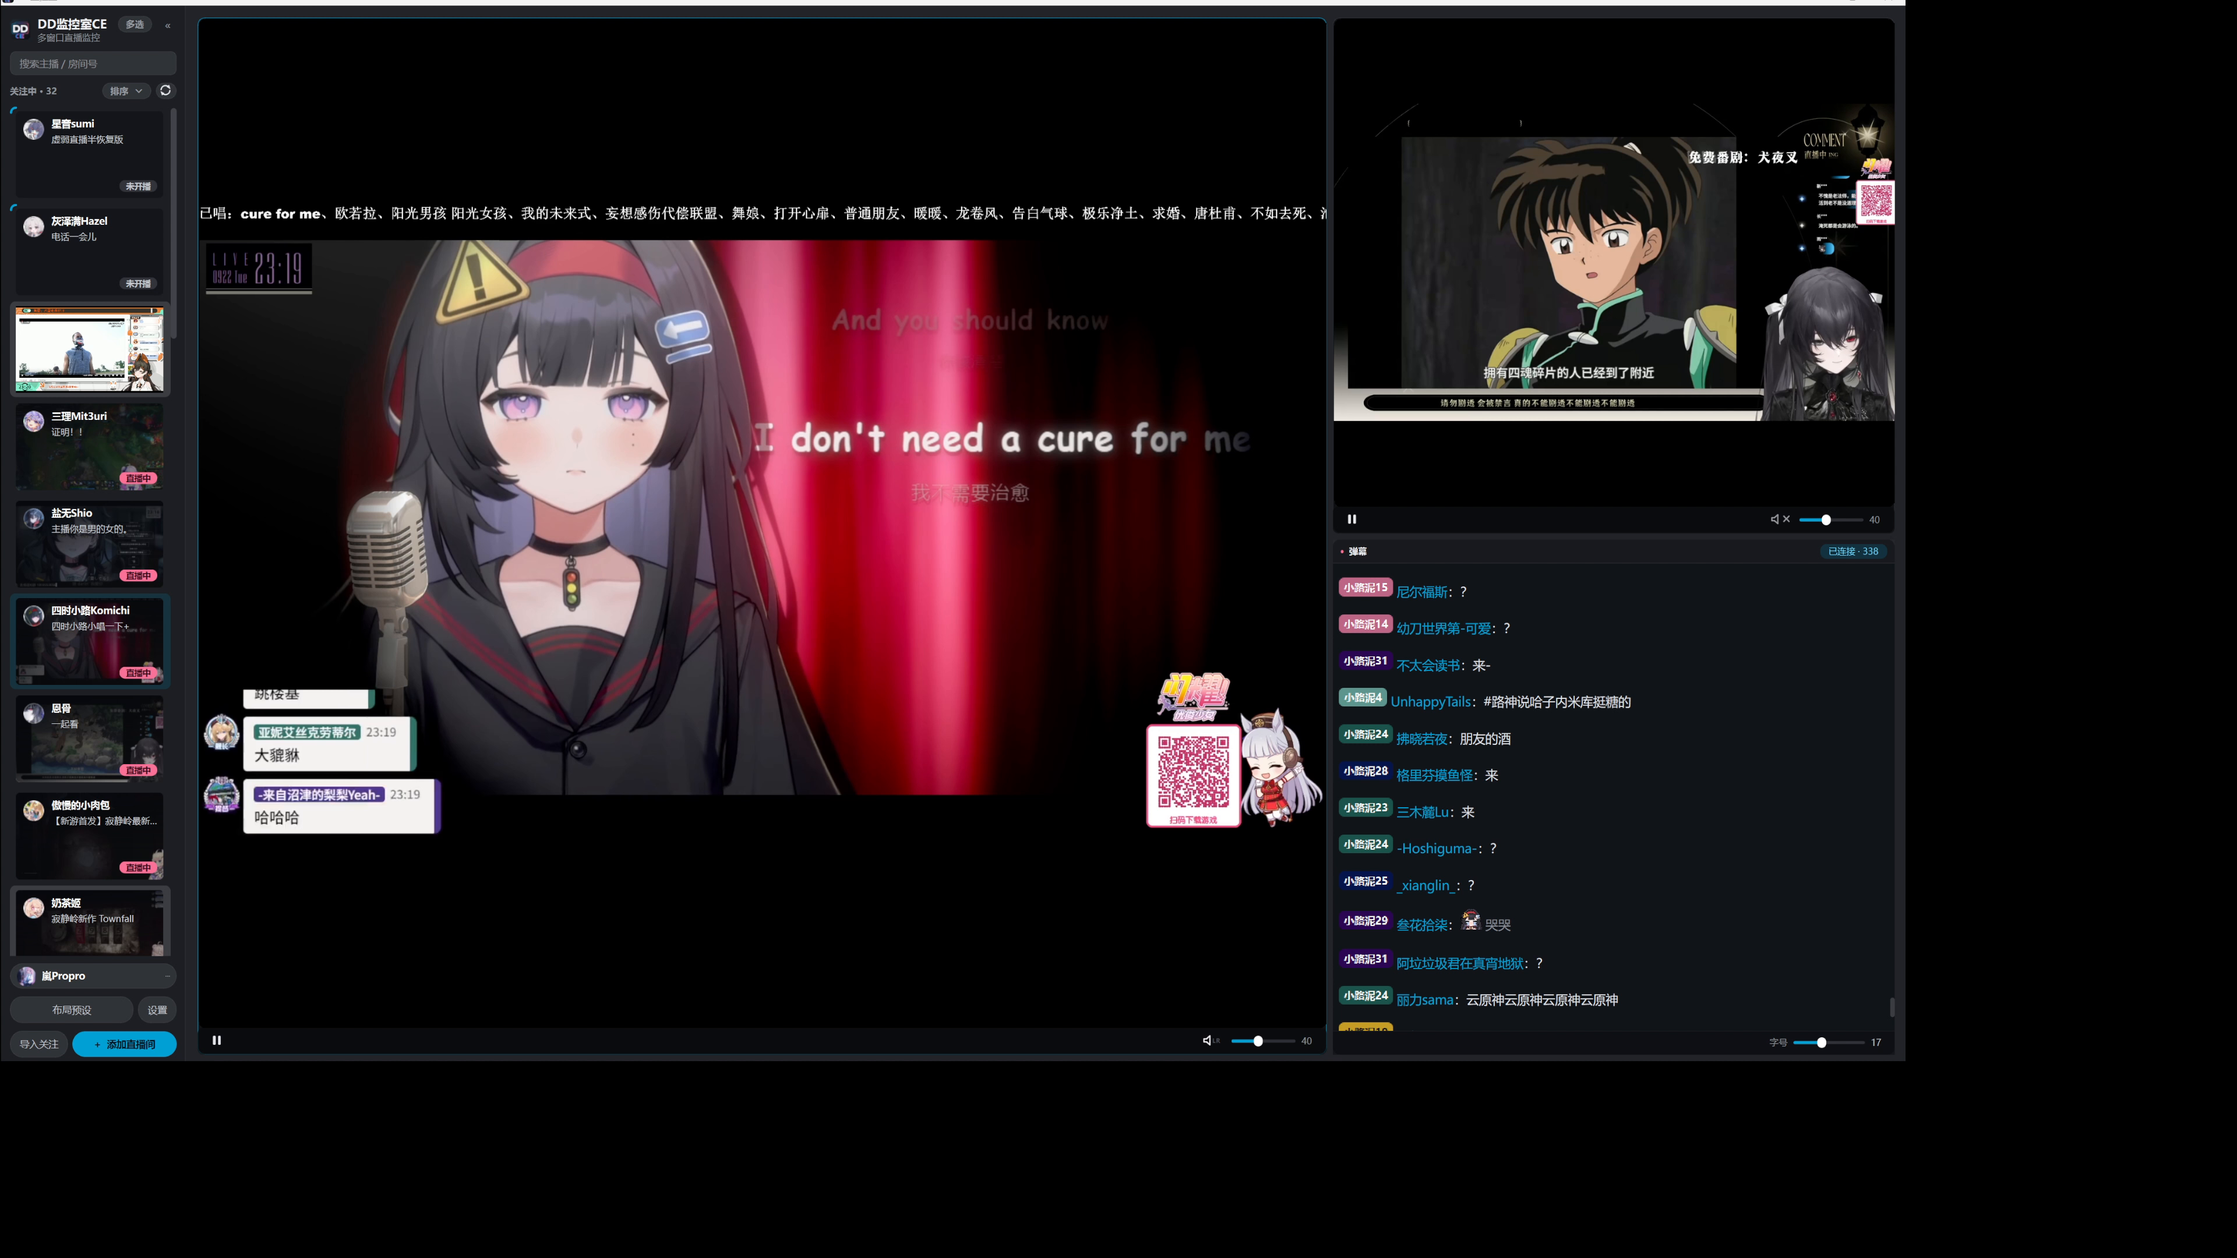
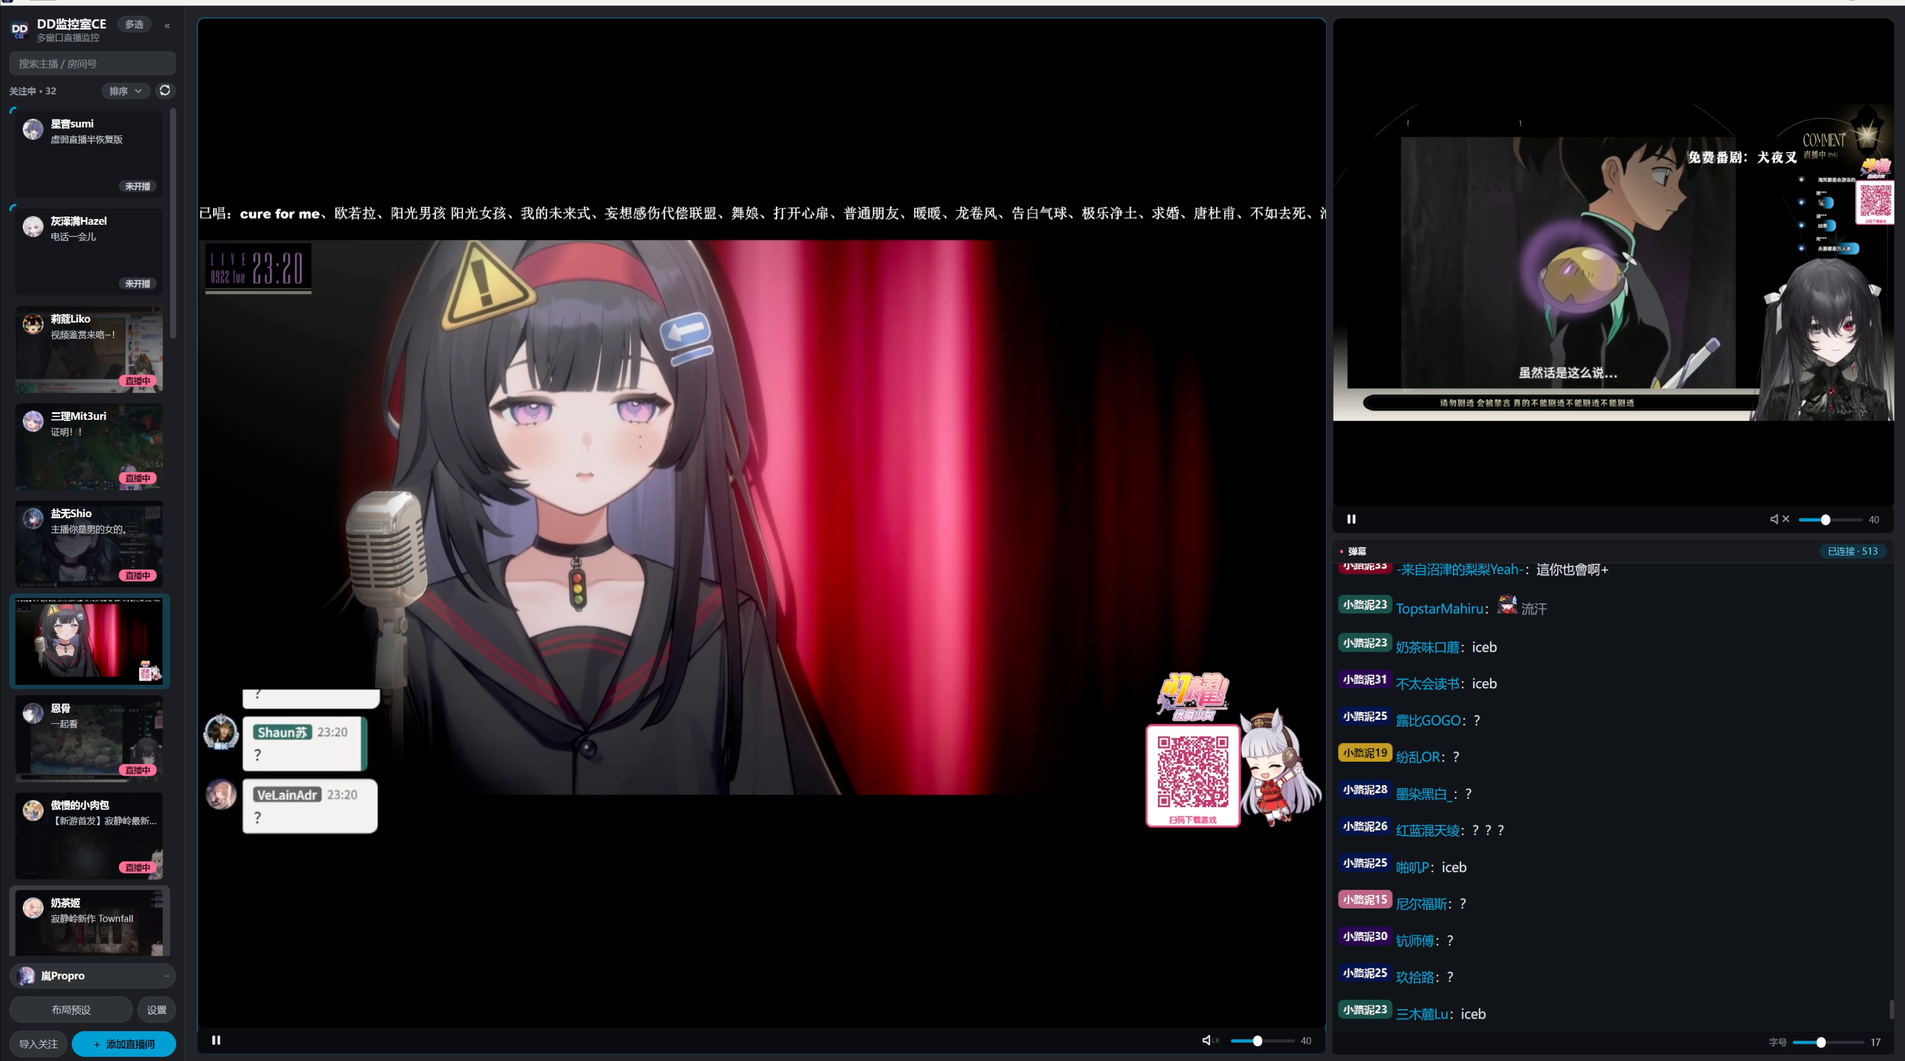
feat(v3/03): 聚焦改为视角推进 + 卡内换成实时录像，并去掉素材黑边
用户 2026-09-23：「聚焦的话将我们的视角推进即可；这个时候的画面停滞了、无法展示预览的效果；
并且右侧和下侧还有黑边，请去除」—— 其十五那版"卡片原地放大"作废。

1) 黑边：聚焦卡片_卡片预览.mp4 的帧右边 569px、下边 338px 是黑的（与 弹幕.mp4 同源，
   内容区都是 3270x1822）-> 从边缘向内扫描量出后裁到内容边界存 focus-app.png
2) 聚焦 = 视角推进：整层 .stage 一起 scale 3.6 + 平移，把目标卡推到画面中心。
   探针 tools/variants-03-focus.json 实测 #v1 box = 726,411 / 469x258 -> 中心正好 (960,540)
3) 画面不再停滞：推进到位后那张卡的位置上换成真实直播录像
   （preview-liko / preview-shio / preview-komichi），动态可见
4) 改用 19.5s 帧：它的关注栏里莉蔻/盐无/四时小路三张都在（4.0s 帧最上面三张是三理Mit3uri/
   盐无/四时小路，而三理Mit3uri 没有预览素材）。三张卡坐标：莉蔻 y 525..675、盐无 859..1009、
   四时小路 1193..1343（粉色"直播中"标签 644/978/1312）
   ⚠ 三支 video 各自提前约 1.4s 存在（data-start 0 / 2.24 / 4.72）—— 渲染器约需 1.1s
     才能让一支视频出帧，卡着轮次起点给会黑

验证：
- lint：0 error（65 warning）
- 渲染：03 = 8.4167s（24fps）/ 8.4000s（30fps）；连播重拼 26.400000s
- 抽帧：t=2.10 卡内是莉蔻（游戏画面）、t=4.70 是盐无（黑发角色）、t=7.20 是四时小路
- 边缘复核：t=2.10 右侧 300px mean=28.9 / 8837 色（是软件画面自身的深色弹幕区，不是黑边）

diff --git a/videos/dd-monitor-ce-promo/compositions/v3/18-03-hover.html b/videos/dd-monitor-ce-promo/compositions/v3/18-03-hover.html
@@ -8,29 +8,29 @@
       /* ==========================================================================
          18-03-hover  ——  C 组：08（0.0–8.382s）「悬停预览 · 如此轻松」
 
-         用户 2026-09-23（第二次修正）：
-           「我要**保留原本的软件画面**，模拟鼠标移动到卡片上、进行直播预览，
-             这个时候**给上一个聚焦**就可以了。」
+         用户 2026-09-23（第三次修正）：
+           「聚焦的话**将我们的视角推进**即可；要修改的地方是，这个时候的画面**停滞了、
+             无法展示预览的效果**；并且**右侧和下侧还有黑边**，请去除。」
+         → 三件事：
+           ① 去掉素材黑边：`聚焦卡片_卡片预览.mp4` 的帧右边 569px、下边 338px 是黑的，
+              裁到内容边界 `x 1..3270 / y 0..1821`（3270×1822，比例 1.795）。
+           ② 聚焦 = **视角推进**（整层 scale + 平移把那张卡推到画面中心），
+              不再是"单独把一张卡放大"。
+           ③ 推进到位后，那张卡的位置上**换成真实直播录像**（动态），
+              解决"画面停滞、看不到预览效果"—— 用的是
+              `preview-liko.mp4` / `preview-shio.mp4` / `preview-komichi.mp4`。
 
-         所以这一版**不再**是"左侧栏 + 右侧预览窗"，而是：
-           · 背景 = 纯色 `sc-white #f8f8f8`（与 02 同底色，接力时白场连续）
-           · 画面中央 = **完整软件界面**（`assets/rec/focus-app.png`，
-             从 `聚焦卡片_卡片预览.mp4` 的 4.0s 帧整帧取的，3840×2160 满屏无黑边）
-           · 模拟鼠标在左侧关注栏里**从上往下依次移到三张开播中的卡上**
-             （4.0s 帧的列表是：星言sumi / 灰泽满Hazel / [展开的预览小窗] /
-              **三理Mit3uri / 盐无Shio / 四时小路Komichi** / 恩骨 / 傲慢的小肉包 / 奶茶姬，
-              靠"直播中"粉色标签 y = 820 / 987 / 1154 定位这三张）
-           · 悬停时那张卡**原地聚焦**：同一张图按 ZOOM 倍放大、裁到那张卡的范围，
-             加青色描边与投影 —— 不另开预览窗、不遮挡软件画面。
-             ⚠ 卡面里本来就是那张卡的直播画面，所以**不需要额外的预览视频素材**
-             （早前那支 `preview-hover.mp4` 只服务于"右侧预览窗"那版设计，已不用）。
+         选帧：用 `聚焦卡片_卡片预览.mp4` 的 **19.5s** 帧 —— 那一帧的关注栏里
+         莉蔻Liko / 盐无Shio / 四时小路Komichi 三张都在（4.0s 帧里最上面三张是
+         三理Mit3uri / 盐无 / 四时小路，三理Mit3uri 没有预览素材）。
+         三张卡在裁剪后的坐标：莉蔻 y 525..675、盐无 859..1009、四时小路 1193..1343，
+         横向都是 x 7..280（靠"直播中"粉色标签 y = 644 / 978 / 1312 定位）。
 
-         节拍：0.1905s 网格。画面入场 0.10–0.60，三轮各 13 拍（2.4765s），
-               起点 0.762 / 3.2385 / 5.715，第三轮 8.1915 收完，整段 8.382s（44 拍）。
+         节拍：0.1905s 网格。三轮各 13 拍（2.4765s），起点 0.762 / 3.2385 / 5.715，整段 8.382s。
 
-         ⚠ 所有坐标在 setup 时按常量算一次（skill：不要 tween 时量 DOM）。
-         ⚠ 只补 opacity / scale / x / y；静态定位走 style，不补 left/top/width/height。
-         ⚠ 不用 tl.call（渲染器 seek 不触发 callback）。
+         ⚠ 三支 <video> 各自**提前约 1.4s 就存在**（data-start 0 / 2.24 / 4.72）——
+           实测渲染器需要 ~1.1s 才能让一支视频出帧，卡着轮次起点给会出现黑画面。
+         ⚠ 坐标一律在 setup 时按常量算一次；只补 opacity / scale / x / y。
          ========================================================================== */
       @font-face { font-family: "Microsoft YaHei UI"; font-weight: 400; src: local("Microsoft YaHei UI"), local("Microsoft YaHei"); }
       @font-face { font-family: "Microsoft YaHei UI"; font-weight: 600 700; src: local("Microsoft YaHei UI Bold"), local("Microsoft YaHei Bold"); }
@@ -53,29 +53,25 @@
         -webkit-font-smoothing: antialiased; color: var(--ink);
       }
 
-      /* ---------- 左上标题 ---------- */
+      /* 视角推进作用在这一层（含软件画面 + 卡内录像一起推） */
+      .stage { position: absolute; inset: 0; transform-origin: 50% 50%; }
+
+      .app {
+        position: absolute; border-radius: 16px; overflow: hidden;
+        box-shadow: 0 44px 100px rgba(16,17,20,.26), 0 0 0 1px rgba(16,17,20,.06);
+      }
+      .app img { display: block; width: 100%; height: 100%; }
+
+      /* 卡内录像：盖在对应的卡片位置上，位置/尺寸由 JS 写死（跟随 .stage 一起推进） */
+      .cardvid { position: absolute; opacity: 0; object-fit: cover; border-radius: 6px; }
+
+      /* 左上标题 */
       .head { position: absolute; left: 150px; top: 34px; }
       .head .n { font-size: 56px; font-weight: 700; letter-spacing: -.01em; line-height: 1; }
       .head .s { margin-top: 12px; font-size: 26px; font-weight: 600; letter-spacing: .16em; color: var(--ink-2); }
       .head .bar { width: 72px; height: 4px; background: var(--accent); margin-top: 16px; transform-origin: 0 50%; }
 
-      /* ---------- 完整软件画面（位置/尺寸由 JS 按常量写死） ---------- */
-      .app {
-        position: absolute; border-radius: 14px; overflow: hidden;
-        box-shadow: 0 44px 100px rgba(16,17,20,.26), 0 0 0 1px rgba(16,17,20,.06);
-      }
-      .app img { display: block; width: 100%; height: 100%; }
-
-      /* ---------- 悬停聚焦：同一张图的放大裁切 ---------- */
-      .focus {
-        position: absolute; border-radius: 12px; opacity: 0;
-        background-image: url("assets/rec/focus-app.png");
-        background-repeat: no-repeat;
-        border: 3px solid var(--accent);
-        box-shadow: 0 34px 78px rgba(16,17,20,.38), 0 0 0 7px rgba(0,161,214,.18);
-      }
-
-      /* ---------- 模拟光标 ---------- */
+      /* 模拟光标 */
       .cursor { position: absolute; left: 0; top: 0; width: 30px; height: 40px; }
       .cursor svg { display: block; }
     </style>
@@ -89,13 +85,18 @@
         <div class="bar" id="headBar"></div>
       </div>
 
-      <!-- 完整软件画面：`聚焦卡片_卡片预览.mp4` 4.0s 帧整帧（3840x2160，满屏无黑边） -->
-      <div class="app" id="app"><img src="assets/rec/focus-app.png" alt=""></div>
+      <div class="stage" id="stage">
+        <!-- 完整软件界面：19.5s 帧裁到内容边界（3270x1822），显示为 1560x869 居中 -->
+        <div class="app" id="app"><img src="assets/rec/focus-app.png" alt=""></div>
 
-      <!-- 三张卡的原地聚焦（同一张图的放大裁切，位置在 setup 时算好） -->
-      <div class="focus" id="f1"></div>
-      <div class="focus" id="f2"></div>
-      <div class="focus" id="f3"></div>
+        <!-- 卡内录像：各自提前约 1.4s 出现，保证切到它时已经有帧 -->
+        <video class="cardvid" id="v1" src="assets/rec/preview-liko.mp4" muted playsinline
+               data-start="0" data-duration="8.382"></video>
+        <video class="cardvid" id="v2" src="assets/rec/preview-shio.mp4" muted playsinline
+               data-start="2.24" data-duration="6.142"></video>
+        <video class="cardvid" id="v3" src="assets/rec/preview-komichi.mp4" muted playsinline
+               data-start="4.72" data-duration="3.662"></video>
+      </div>
 
       <div class="cursor" id="cursor" style="opacity:0">
         <svg viewBox="0 0 30 40" width="30" height="40"><path d="M4 2 L4 30 L11 24 L16 36 L21 34 L17 22 L27 22 Z" fill="#f1f2f5" stroke="#0d0e10" stroke-width="2.2"/></svg>
@@ -108,22 +109,18 @@
         var EASE_IO = "cubic-bezier(0.77, 0, 0.175, 1)";
         var tl = gsap.timeline({ paused: true });
 
-        /* ================= 常量（setup 时算一次，补间里不再量 DOM） =================
-           素材整帧 3840×2160；软件画面显示为 APP.w × APP.h，居中放在 APP.left / APP.top。
-           三张卡的整帧坐标由左侧栏"直播中"粉色标签定位（标签在卡片右下角，距边约 12px）：
-             莉蔻       标签 y 812..829  ->  卡 y 691..841
-             盐无       标签 y 978..997  ->  卡 y 858..1008
-             四时小路   标签 y 1146..1163 -> 卡 y 1025..1175
-           卡片横向都是 x 8..281（左侧栏内缩进 8px、宽 273）。 */
-        var FRAME = { w: 3840, h: 2160 };
-        var APP = { left: 190, top: 144, w: 1540, h: 866 };
+        /* ================= 常量（setup 时算一次） =================
+           素材 focus-app.png = 3270×1822（已裁掉右 569 / 下 338 黑边）。
+           显示为 APP.w × APP.h 居中；三张卡在素材里的坐标见文件头注释。 */
+        var FRAME = { w: 3270, h: 1822 };
+        var APP = { left: 180, top: 106, w: 1560, h: 869 };
         var CARDS = [
-          { x: 8, y: 691,  w: 273, h: 150 },
-          { x: 8, y: 858,  w: 273, h: 150 },
-          { x: 8, y: 1025, w: 273, h: 150 }
+          { x: 7, y: 525,  w: 273, h: 150 },   /* 莉蔻Liko      */
+          { x: 7, y: 859,  w: 273, h: 150 },   /* 盐无Shio      */
+          { x: 7, y: 1193, w: 273, h: 150 }    /* 四时小路Komichi */
         ];
-        var ZOOM = 3.6;                       /* 聚焦放大倍数 */
-        var k = APP.w / FRAME.w;              /* 整帧 -> 画面显示 的缩放 */
+        var ZOOM = 3.6;                        /* 视角推进倍数 */
+        var k = APP.w / FRAME.w;               /* 素材 -> 画面显示 */
 
         var appEl = document.getElementById("app");
         appEl.style.left = APP.left + "px";
@@ -131,48 +128,54 @@
         appEl.style.width = APP.w + "px";
         appEl.style.height = APP.h + "px";
 
-        var SPOT = [];                        /* 每张卡：聚焦框的左上角 + 光标落点 */
+        var SPOT = [];
         CARDS.forEach(function (c, i) {
           var dx = APP.left + c.x * k, dy = APP.top + c.y * k;
-          var dw = c.w * k, dh = c.h * k;                 /* 卡片在画面上的显示尺寸 */
-          var el = document.getElementById("f" + (i + 1));
-          el.style.width = (dw * ZOOM) + "px";
-          el.style.height = (dh * ZOOM) + "px";
-          /* ⚠ 聚焦框的**左上角**对齐卡片的左上角，让放大朝右下方展开 ——
-             卡片本来就在画面最左边，若按中心对齐会向左溢出软件画面。 */
+          var dw = c.w * k, dh = c.h * k;
+          var el = document.getElementById("v" + (i + 1));
           el.style.left = dx + "px";
           el.style.top = dy + "px";
-          el.style.backgroundSize = (APP.w * ZOOM) + "px " + (APP.h * ZOOM) + "px";
-          el.style.backgroundPosition = (-c.x * k * ZOOM) + "px " + (-c.y * k * ZOOM) + "px";
-          SPOT.push({ cx: dx + dw / 2, cy: dy + dh / 2 });
+          el.style.width = dw + "px";
+          el.style.height = dh + "px";
+          var cx = dx + dw / 2, cy = dy + dh / 2;
+          /* 视角推进：transform-origin 是画布中心，把卡片中心推到 (960,540) 需要
+             tx = -(cx-960)*ZOOM、ty = -(cy-540)*ZOOM。 */
+          SPOT.push({ cx: cx, cy: cy, tx: -(cx - 960) * ZOOM, ty: -(cy - 540) * ZOOM });
         });
 
         /* ---- 基线 ---- */
         gsap.set("#head", { opacity: 0, y: 20 });
         gsap.set("#headBar", { scaleX: 0 });
-        gsap.set("#app", { opacity: 0, scale: 0.985 });
-        gsap.set(".focus", { opacity: 0, scale: 0.90 });
-        gsap.set("#cursor", { opacity: 0, x: SPOT[0].cx - 8, y: SPOT[0].cy - 8 });
+        gsap.set("#stage", { scale: 1, x: 0, y: 0 });
+        gsap.set("#app", { opacity: 0 });
+        gsap.set(".cardvid", { opacity: 0 });
+        gsap.set("#cursor", { opacity: 0, x: SPOT[0].cx - 6, y: SPOT[0].cy - 6 });
 
-        /* ================= 入场：软件画面 + 标题 ================= */
-        tl.fromTo("#app", { opacity: 0, scale: 0.985 },
-          { opacity: 1, scale: 1, duration: 0.52, ease: EASE_OUT, immediateRender: false }, 0.02);
+        /* ================= 入场 ================= */
         tl.fromTo("#head", { opacity: 0, y: 20 },
-          { opacity: 1, y: 0, duration: 0.46, ease: EASE_OUT, immediateRender: false }, 0.12);
+          { opacity: 1, y: 0, duration: 0.46, ease: EASE_OUT, immediateRender: false }, 0.08);
         tl.fromTo("#headBar", { scaleX: 0 },
-          { scaleX: 1, duration: 0.40, ease: EASE_OUT, immediateRender: false }, 0.36);
-        tl.to("#cursor", { opacity: 1, duration: 0.22, immediateRender: false }, 0.58);
+          { scaleX: 1, duration: 0.40, ease: EASE_OUT, immediateRender: false }, 0.30);
+        tl.fromTo("#app", { opacity: 0 },
+          { opacity: 1, duration: 0.50, ease: EASE_OUT, immediateRender: false }, 0.02);
+        tl.to("#cursor", { opacity: 1, duration: 0.20, immediateRender: false }, 0.56);
 
-        /* ================= 三轮：鼠标移到卡上 → 那张卡原地聚焦 → 换下一张 =================
-           每轮 13 拍：光标下移（0.44s）→ 到位后聚焦框弹出（0.26s）→ 停留 → 收起。 */
-        var LIFT = 0.762;                     /* 第一轮起点（4 拍） */
+        /* ================= 三轮：鼠标移到卡上 → 视角推进 → 卡内换成动态录像 → 退回 =================
+           每轮 13 拍（2.4765s）：
+             0.00  光标下移到这张卡
+             0.30  视角推进（0.56s）
+             0.86  卡内录像淡入（0.24s）—— 画面不再停滞
+             1.90  录像淡出、1.94 视角退回（0.52s） */
+        var LIFT = 0.762;
         var ROUND = 13 * 0.1905;              /* 2.4765 */
         function round(base, i) {
           var s = SPOT[i];
-          var f = "#f" + (i + 1);
-          if (i > 0) tl.to("#cursor", { y: s.cy - 8, duration: 0.44, ease: EASE_IO, immediateRender: false }, base);
-          tl.to(f, { opacity: 1, scale: 1, duration: 0.28, ease: "back.out(1.4)", immediateRender: false }, base + 0.36);
-          tl.to(f, { opacity: 0, scale: 0.94, duration: 0.24, ease: EASE_OUT, immediateRender: false }, base + 2.02);
+          var v = "#v" + (i + 1);
+          if (i > 0) tl.to("#cursor", { y: s.cy - 6, duration: 0.36, ease: EASE_IO, immediateRender: false }, base);
+          tl.to("#stage", { scale: ZOOM, x: s.tx, y: s.ty, duration: 0.56, ease: "power2.inOut", immediateRender: false }, base + 0.30);
+          tl.to(v, { opacity: 1, duration: 0.24, ease: EASE_OUT, immediateRender: false }, base + 0.86);
+          tl.to(v, { opacity: 0, duration: 0.22, ease: EASE_OUT, immediateRender: false }, base + 1.90);
+          tl.to("#stage", { scale: 1, x: 0, y: 0, duration: 0.52, ease: "power2.inOut", immediateRender: false }, base + 1.94);
         }
         round(LIFT, 0);                       /* 0.762  */
         round(LIFT + ROUND, 1);               /* 3.2385 */

diff --git a/videos/dd-monitor-ce-promo/SCRIPT-v3.md b/videos/dd-monitor-ce-promo/SCRIPT-v3.md
@@ -424,6 +424,22 @@
      ⚠ 聚焦框按**左上角**对齐卡片左上角：卡片在画面最左边，按中心对齐会向左溢出软件画面。
   → lint 仍 **0 error**；03 = 8.4167s（24fps）/ 8.4000s（30fps）；连播重拼 26.4s；
     接缝复核：17.80s（02 滑出中）→ **18.00s 纯白 245.3** → 18.30s（03 淡入）→ 18.80s（稳定）。
+- **[用户 2026-09-23 改 · 其十六 —— 03 第三次修正（其十五那版的"卡片原地放大"作废）]**
+  「聚焦的话**将我们的视角推进**即可；要修改的是：这个时候的画面**停滞了、无法展示预览的效果**；
+  并且**右侧和下侧还有黑边**，请去除」→
+  ① **黑边**：`聚焦卡片_卡片预览.mp4` 的帧右边 **569px**、下边 **338px** 是黑的
+     （与 `弹幕.mp4` 同源，内容区都是 `3270×1822`）→ 裁到内容边界后存 `focus-app.png`（3270×1822）。
+  ② **聚焦 = 视角推进**：整层 `.stage` 一起 `scale 3.6` + 平移，把目标卡推到画面中心
+     （探针 `tools/variants-03-focus.json` 实测 `#v1` box = `726,411 469×258` → 中心正好 (960,540)）。
+  ③ **画面不再停滞**：推进到位后，那张卡的位置上**换成真实直播录像**
+     （`preview-liko` / `preview-shio` / `preview-komichi`），动态可见。
+  ④ **选帧改用 19.5s** —— 它的关注栏里莉蔻 / 盐无 / 四时小路三张都在
+     （4.0s 帧最上面三张是三理Mit3uri / 盐无 / 四时小路，而三理Mit3uri 没有预览素材）；
+     三张卡坐标：莉蔻 y 525..675、盐无 859..1009、四时小路 1193..1343（粉色标签 644/978/1312）。
+  ⚠ 三支 `<video>` 各自**提前约 1.4s** 存在（data-start 0 / 2.24 / 4.72）——
+    实测渲染器约需 1.1s 才能让一支视频出帧，卡着轮次起点给会得到黑画面。
+  → lint **0 error**（65 warning）；03 = 8.4167s / 8.4000s；连播重拼 26.4s；
+    核对图 `renders/v3-03-focus-check.png`（软件画面入场 → 三轮推进 + 三段实时录像）。
 
 ### 【约 19–29s】声道
 
